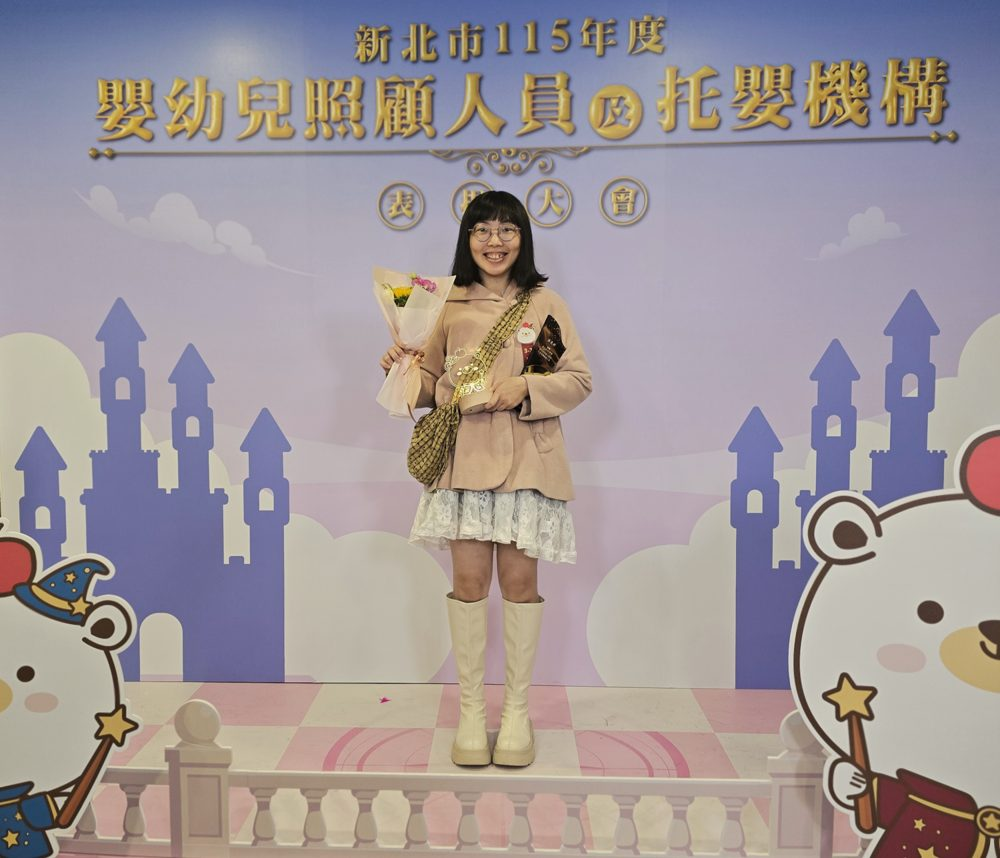
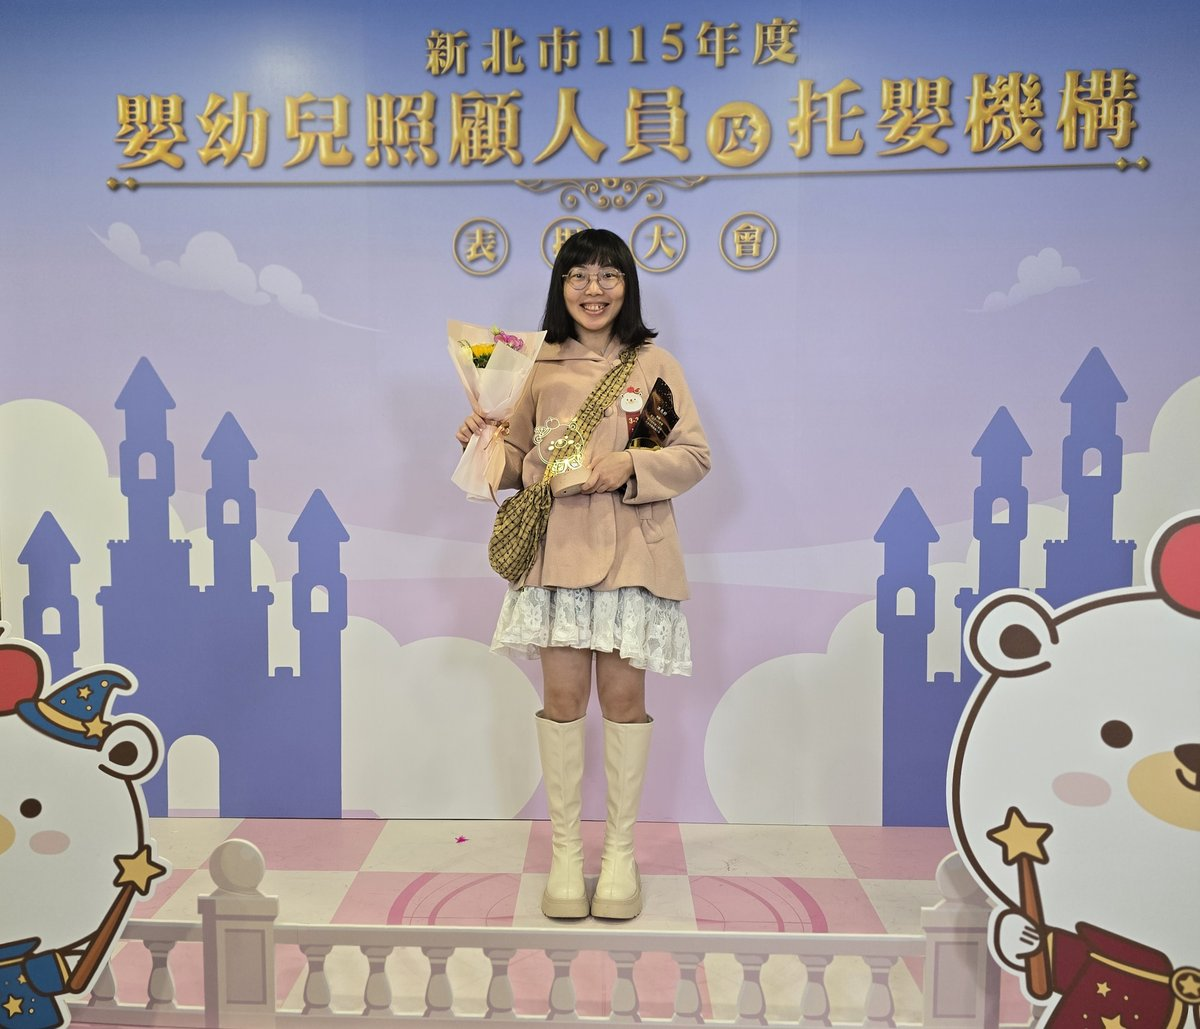
Awards: replace photos with 潛力新秀獎 stage and trophy photos; drop wall photo
Claude-Session: https://claude.ai/code/session_01W5HLyi81SNKafH6qQZUofw

diff --git a/index.html b/index.html
@@ -87,10 +87,9 @@
       <div class="card award"><div class="medal" aria-hidden="true">📖</div><h3>好繪說故事獎</h3><p><b>2025 年 10 月</b><br>中文、英文的雙語故事，還有客語、閩南語繪本，都是我的說故事日常。</p></div>
       <div class="card award"><div class="medal" aria-hidden="true">🎶</div><h3>創意律動動感寶貝人氣獎</h3><p><b>2025 年 10 月</b><br>用絲巾、棒棒糖鼓和兒歌，陪孩子玩得開心、動得健康。</p></div>
     </div>
-    <div class="grid grid-3 shots">
-      <figure><img src="images/award-stage.jpg" alt="Lucy 手捧花束與潛力新秀獎獎座，站在新北市表揚大會的布置前微笑" loading="lazy" width="1000" height="858"><figcaption>表揚大會領獎</figcaption></figure>
-      <figure><img src="images/award-trophy.jpg" alt="潛力新秀獎的小熊造型發光獎座與玻璃獎座" loading="lazy" width="800" height="1067"><figcaption>潛力新秀獎的獎座</figcaption></figure>
-      <figure><img src="images/award-wall.jpg" alt="表揚大會獎座牆，掛著好繪說故事、動感寶貝等獎項的小熊獎座" loading="lazy" width="800" height="1067"><figcaption>獎座牆：好繪說故事、動感寶貝優勝獎</figcaption></figure>
+    <div class="grid grid-2 shots shots-2">
+      <figure><img src="images/award-stage.jpg" alt="Lucy 手捧花束與潛力新秀獎獎座，站在新北市表揚大會的布置前微笑" loading="lazy" width="1200" height="1020"><figcaption>潛力新秀獎：新北市 115 年度表揚大會領獎</figcaption></figure>
+      <figure><img src="images/award-trophy.jpg" alt="潛力新秀獎的小熊造型發光獎座與玻璃獎座" loading="lazy" width="900" height="1200"><figcaption>潛力新秀獎的獎座</figcaption></figure>
     </div>
   </div>
 </section>

diff --git a/css/styles.css b/css/styles.css
@@ -133,3 +133,5 @@ article.entry{background:var(--card);border:1px solid var(--line);border-radius:
 .about-intro{display:grid;grid-template-columns:200px 1fr;gap:24px;align-items:center;margin-bottom:1.2em}
 .about-photo{width:200px;height:auto;aspect-ratio:4/5;object-fit:cover;border-radius:var(--radius);border:3px solid var(--yellow-300);box-shadow:var(--shadow)}
 @media (max-width:560px){.about-intro{grid-template-columns:1fr;justify-items:center;text-align:center}.about-photo{width:70%}}
+
+.shots-2{max-width:760px;margin-left:auto;margin-right:auto}
